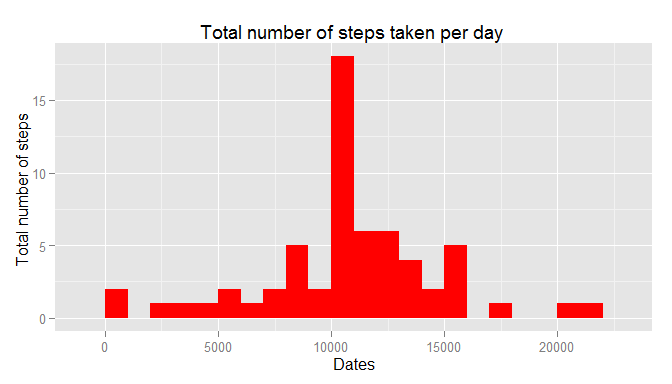
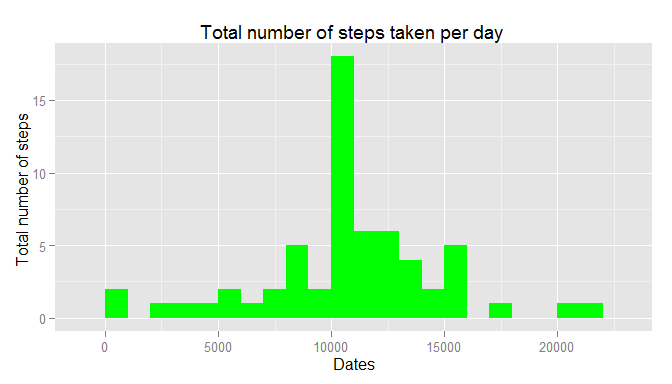
11th Commit

Changed region(s): [[0.2188, 0.125, 0.7812, 0.8438], [0.8125, 0.7812, 0.9062, 0.8438], [0.1562, 0.75, 0.1875, 0.8438]]

diff --git a/PA1_template.html b/PA1_template.html
@@ -164,11 +164,11 @@ aggregateSumStepsPerDay &lt;- with(activity_df2, aggregate(activity_df2$steps,
 <p><strong>2. Make a histogram of the total number of steps taken each day</strong></p>
 <pre class="r"><code>names(aggregateSumStepsPerDay) &lt;- c(&quot;dates&quot;,&quot;steps&quot;)
 g &lt;- ggplot(aggregateSumStepsPerDay, aes(x = steps))
-g + geom_histogram(fill=&quot;blue&quot;, binwidth=1000) +
+g + geom_histogram(fill=&quot;magenta&quot;, binwidth=1000) +
         xlab(&quot;Dates&quot;) +
         ylab(&quot;Total number of steps &quot;) +
         ggtitle(&quot;Total number of steps taken per day&quot;)</code></pre>
[2 lines of base64/hex data omitted]
 </div>
 <div id="section-8" class="section level3">
 <h3></h3>
@@ -274,11 +274,11 @@ for (i in 1:nrow(activity_df))
 <p>Step 2: Plot the filled data using histogram</p>
 <pre class="r"><code>names(aggregateSumStepsPerDay2) &lt;- c(&quot;dates&quot;,&quot;steps&quot;)
 g &lt;- ggplot(aggregateSumStepsPerDay2, aes(x = steps))
-g + geom_histogram(fill=&quot;red&quot;, binwidth=1000) +
+g + geom_histogram(fill=&quot;green&quot;, binwidth=1000) +
         xlab(&quot;Dates&quot;) +
         ylab(&quot;Total number of steps &quot;) +
         ggtitle(&quot;Total number of steps taken per day &quot;)</code></pre>
[2 lines of base64/hex data omitted]
 </div>
 <div id="section-21" class="section level3">
 <h3></h3>

diff --git a/PA1_template.md b/PA1_template.md
@@ -7,9 +7,7 @@
 
 This report is created to fulfill the requirements for the Coursera assignment "Reproducible Research: Peer Assessment 1" and is written in a single R Markdown document that is processed by knitr and later transformed into an HTML file. The dataset that is used for this assignment is stored in a comma-separated-value (CSV) file, found in the same github repository with the report . It consists of two months of data from a personal activity monitoring device that was collected between October 2012 and November 2012 and includes the number of steps taken in 5 minute intervals each day.
 
-The report contains chunk of R codes, results and figure/charts in an attempt the answer the questions featured in the assignment with regards to the dataset.
-
-
+The report contains chunk of R codes, results and figure/charts in an attempt the answer the questions featured in the assignment with regards to the dataset.  
 
 
 ##Loading and preprocessing the data 
@@ -114,7 +112,7 @@ aggregateSumStepsPerDay <- with(activity_df2, aggregate(activity_df2$steps,
 ```r
 names(aggregateSumStepsPerDay) <- c("dates","steps")
 g <- ggplot(aggregateSumStepsPerDay, aes(x = steps))
-g + geom_histogram(fill="blue", binwidth=1000) +
+g + geom_histogram(fill="magenta", binwidth=1000) +
         xlab("Dates") +
         ylab("Total number of steps ") +
         ggtitle("Total number of steps taken per day")
@@ -246,7 +244,7 @@ Step 2: Plot the filled data using histogram
 ```r
 names(aggregateSumStepsPerDay2) <- c("dates","steps")
 g <- ggplot(aggregateSumStepsPerDay2, aes(x = steps))
-g + geom_histogram(fill="red", binwidth=1000) +
+g + geom_histogram(fill="green", binwidth=1000) +
         xlab("Dates") +
         ylab("Total number of steps ") +
         ggtitle("Total number of steps taken per day ")
